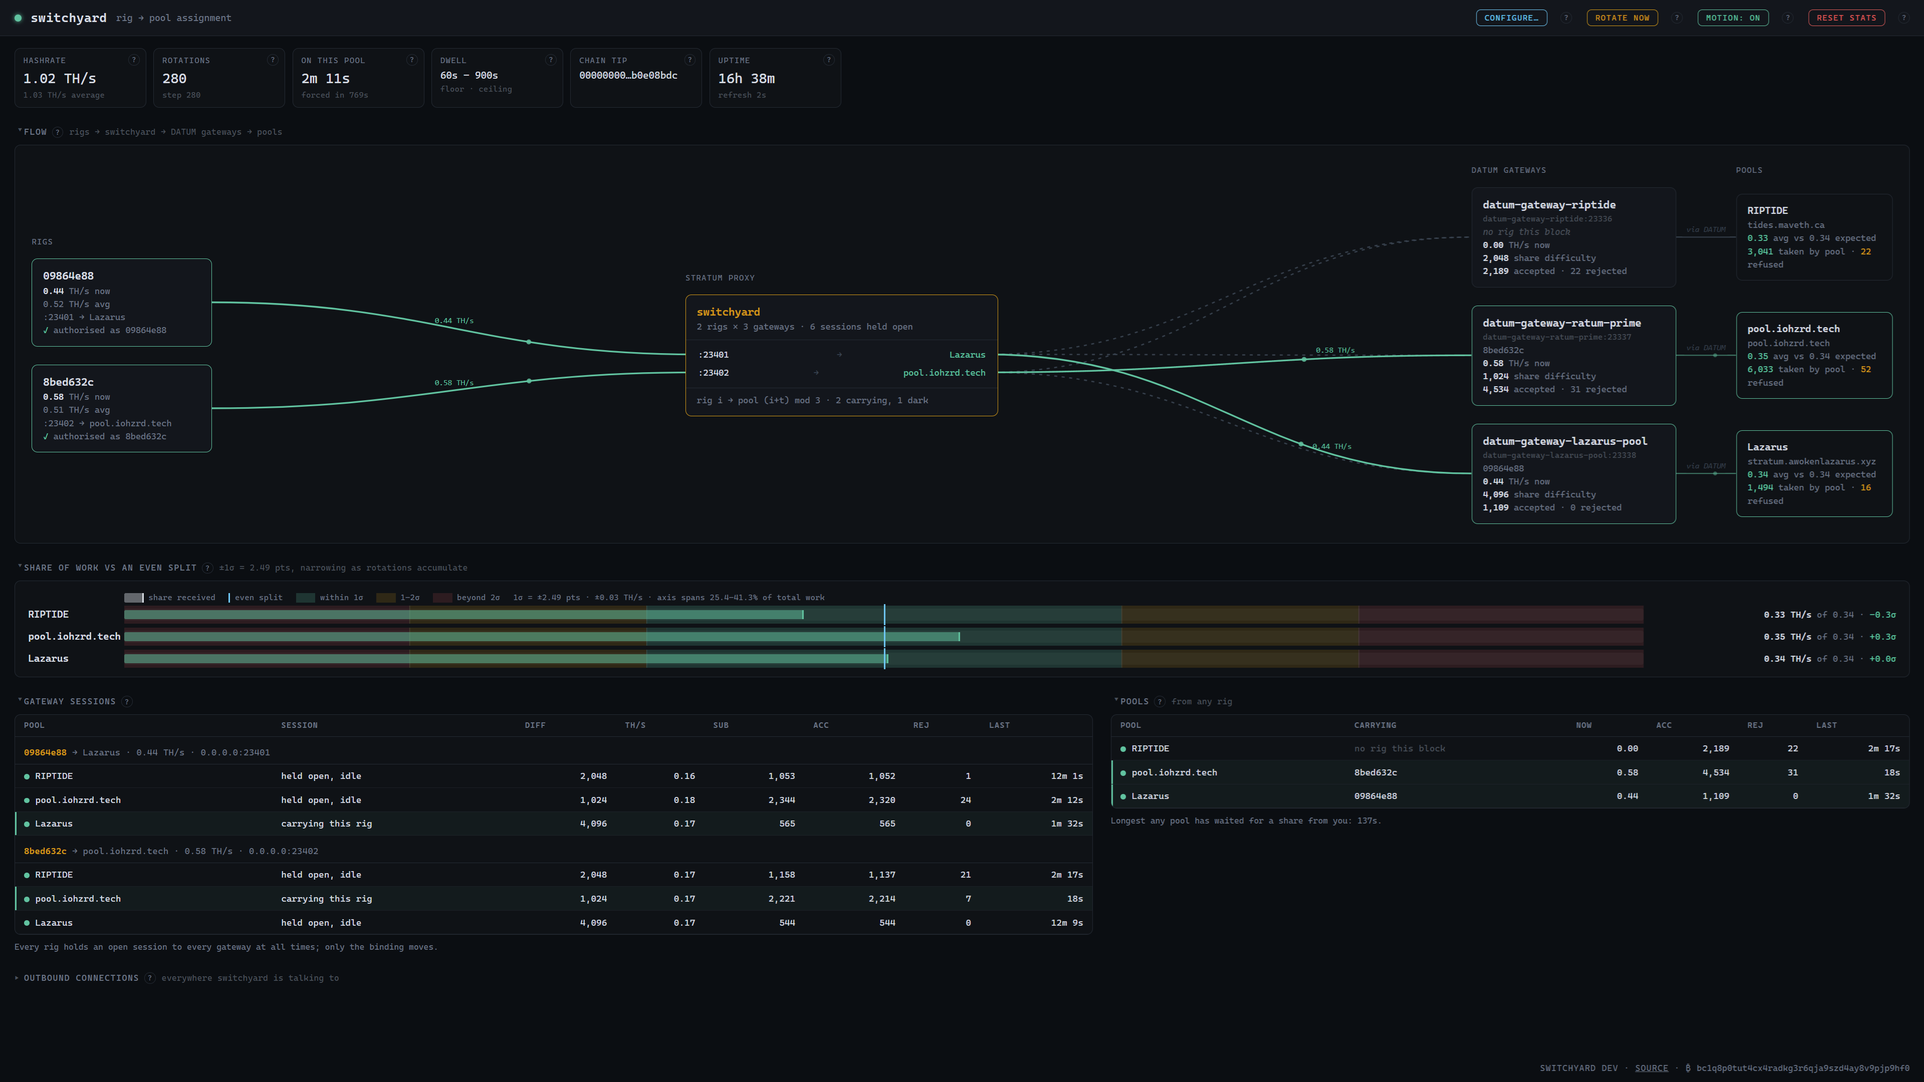
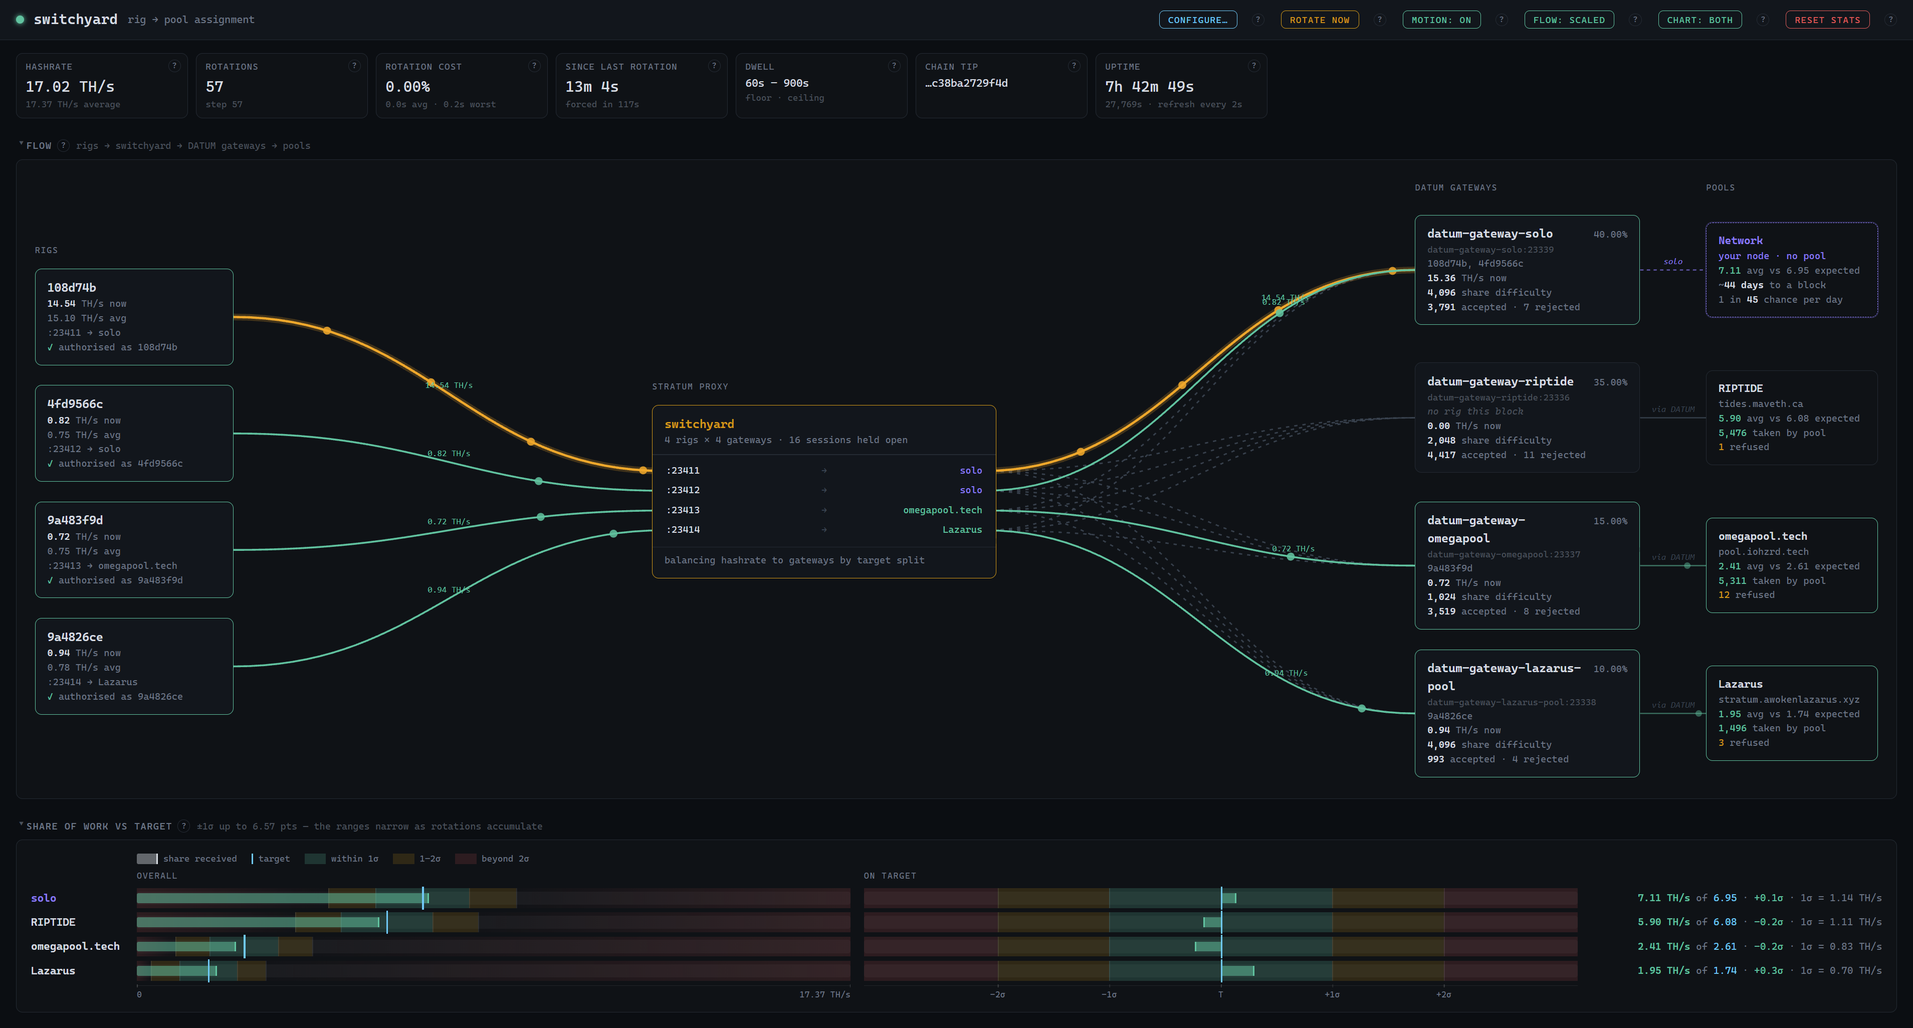
Rewrite the README for the new scheduler, solo gateway and custom split, with a new dashboard screenshot and split editor image.

diff --git a/README.md b/README.md
@@ -1,7 +1,7 @@
 # switchyard
 
-Split your hashrate across as many DATUM pools as you like, on the network's
-own clock.
+Split your hashrate across as many DATUM pools as you like, in whatever ratio
+you like, on the network's own clock, including a solo gateway.
 
 Fixed tracks, rolling stock, routed between them on a schedule.
 
@@ -12,21 +12,22 @@ Fixed tracks, rolling stock, routed between them on a schedule.
 
 ![The switchyard dashboard](docs/dashboard.png)
 
-*Two rigs, three pools, 280 rotations in. Each pool received 0.33, 0.35 and
-0.34 TH/s against an even split of 0.34 — inside a third of a standard
-deviation, which is the evenness the bands exist to prove.*
+*Four rigs across a solo gateway and three pools, on a 40/35/15/10 split, 57
+rotations in. Against targets of 6.95, 6.08, 2.61 and 1.74 TH/s they received
+7.11, 5.90, 2.41 and 1.95, every one within a third of a standard deviation.*
 
 The pools above are real, run by people who did the work of standing up a
 DATUM-compatible pool. Named here for attribution, but note that switchyard
 neither knows nor cares which pools you use.
 
 - **RIPTIDE** — <https://tides.maveth.ca>
-- **RATUM Prime** — <https://pool.iohzrd.tech>
+- **OmegaPool** — <https://pool.iohzrd.tech>
 - **Lazarus Pool** — <https://pool.awokenlazarus.xyz>
 
 **[The problem](#the-problem)** · **[How it works](#how-it-works)** ·
 **[What it costs](#what-this-costs-you)** · **[What you need](#what-you-need)** ·
 **[Gateway requirement](#one-requirement-on-your-gateways)** ·
+**[Solo gateway](#solo-gateway)** · **[Custom split](#custom-split)** ·
 **[Running it](#running-it)** · **[Configuring it](#configuring-it)** ·
 **[Behaviour worth knowing](#behaviour-worth-knowing)** ·
 **[Rented hashrate](#rented-hashrate)** ·
@@ -54,10 +55,10 @@ switchyard never talks to a pool. It sits between your rigs and your local
 DATUM gateways, each holding its own permanent session with its Prime.
 Rotating a rig disturbs no pool relationship.
 
-Any number of rigs, any number of pools. With fewer rigs than pools, `P − R`
-pools are dark at any moment — the arithmetic minimum. With more, pools carry
-multiple rigs rather than one. Either way every rig tours every pool once per cycle,
-so every pool's long-run share is equal.
+Any number of rigs, any number of pools. A balance scheduler steers each pool's
+long-run share of work toward its target — an even split by default, or an
+uneven one you set per pool. At any given moment some pools may carry several
+rigs while others are dark, whatever the counts; it is the long run that holds.
 
 ---
 
@@ -67,17 +68,29 @@ so every pool's long-run share is equal.
 — each stays welded to its pool for life (see [What you need](#what-you-need)).
 Rigs are the only thing that moves.
 
-**The schedule.** Rig `i` at step `t` is on pool `(base[i] + t) mod P`. Each
-rig keeps a fixed offset, so rigs never converge; every rig visits every pool
-exactly once per `P` steps. The opening arrangement is randomised but balanced,
-so no pool is systematically favoured.
+**The schedule.** A *balance scheduler* places the rigs on each rotation. For each
+rig it tracks how much of that rig's time each pool has had, and sends the rig to
+the pool furthest behind its target share of that time, with a small preference
+for pools no other rig is on when the choice is close. A rig holding the split
+with its own time holds it with its hashrate too, whatever size it is. The opening
+arrangement is randomised but balanced, so no pool is systematically favoured.
+Over many rotations each pool converges to its target regardless of block-timing
+variance (see [Custom split](#custom-split) for setting those targets).
+
+A rig cannot be divided, so with one rig doing most of the hashing the shares
+swing widely at first and take longer to smooth out, typically about a day of
+blocks. One real fleet, a 15 TH/s rig and three under 1 TH/s on a 40/35/15/10
+split, had its worst pool 1.3 points off target after 58 rotations.
 
 **The clock is new blocks**, detected from the `prevhash` in `mining.notify` on
 the upstream sessions. This costs nothing — every gateway already pushes a
 fresh job on every block, so there is no `blocknotify` wiring and no node
 restart. Block intervals are exponential, so slots vary widely; that averages
-out. `minDwellSeconds` only stops a burst of fast blocks from spending more
-time reconnecting than hashing.
+out. Two limits shape the rest. A block that arrives inside `minDwellSeconds`
+gets no rotation of its own, so a burst of fast blocks doesn't spend more time
+reconnecting than hashing, and if no block arrives within `maxDwellSeconds`
+switchyard rotates anyway. Over one eight-hour run, 50 of 59 rotations came from
+blocks and 9 from the ceiling, and 8 of 58 blocks fell inside the floor.
 
 **The upstream mesh is always on.** Every rig holds a session to *every*
 gateway permanently — a full `R × P` mesh — regardless of assignment. That is
@@ -86,13 +99,20 @@ to the TCP connection and **not** keyed by worker name. A gateway dialled only
 while a rig points at it would reset difficulty to the floor and re-climb on
 every rotation. With the mesh held open, only the rig-facing connection cycles.
 
+The mesh shortens the re-climb rather than removing it. DATUM lowers a session's
+difficulty when no shares are coming in, so a session left idle for several
+minutes has drifted down by the time a rig returns. A large rig then climbs back
+in about half a minute. Each share is counted at the difficulty it was sent at,
+so the extra low-difficulty shares don't skew the split.
+
 **The rig still has to reconnect.** `extranonce1` is assigned per-session at
 `mining.subscribe`, folded into the coinbase and therefore the merkle root. A
 share mined under one gateway's extranonce1 is a *different share* and cannot
 be re-addressed — a proxy cannot remap it, the hash would be wrong. So a rig
 session is bound to one gateway for its lifetime, and rotation means ending it.
 `mining.set_extranonce` would avoid the drop but depends on firmware support
-that varies.
+that varies. Every rotation reconnects every rig, including one the scheduler
+sends back to the pool it was already on.
 
 ---
 
@@ -114,8 +134,9 @@ three-minute slots. The gap is fixed; the slot is not. So the cost is set less
 by your hardware than by how often you rotate — and rotation fires on blocks,
 which you do not control. `minDwellSeconds` is the one lever you have.
 
-Reconnect time varies by firmware — two seconds for some miners, ten for
-others, and you cannot know yours from a datasheet. So switchyard measures it:
+Reconnect time varies by firmware — well under a second for some miners, ten
+seconds for others, and you cannot know yours from a datasheet. So switchyard
+measures it:
 the **Rotation cost** card reports observed average and worst reconnect, and
 the share of rig-time lost to them. Only gaps switchyard itself caused are
 counted; gaps over a minute are excluded rather than averaged in.
@@ -123,7 +144,7 @@ counted; gaps over a minute are excluded rather than averaged in.
 **A second, smaller cost: your reject rate will rise slightly.** A rotation
 changes the job and `extranonce1` under a running ASIC, so work already in the
 pipeline is stale by the time it is submitted. In practice this is roughly one
-share every couple of dozen rotations — enough to move a reject rate from
+share per rig every couple of dozen rotations — enough to move a reject rate from
 around 0.1% to a few tenths of a percent. Worth knowing only so the change
 doesn't look like a fault.
 
@@ -293,11 +314,14 @@ Run a node.
 
 ---
 
-## Solo slot
+## Solo gateway
 
 One gateway in the rotation can be a **solo** one: a DATUM gateway configured
-with no pool. It takes its turn like any pool. While a rig is on it, that rig
-is mining solo from your own node, and a block it finds is yours whole.
+with no pool. The scheduler treats it like any pool. While a rig is on it, that
+rig is mining solo from your own node, and a block it finds is yours whole.
+
+Time on solo pays nothing until you find a block. Odds aside, that is the trade:
+a pool pays you steadily for the same work, and solo pays all at once or never.
 
 The gateway's own config needs three things a pooled one does not:
 
@@ -310,19 +334,87 @@ The gateway's own config needs three things a pooled one does not:
 `mining.pool_address` is where a found block pays, so set it to your own
 address. Give it its own coinbase tag, as with any gateway.
 
-Add it with **Add solo gateway** in CONFIGURE, or in `config.json`:
+Add it with **Add solo gateway** in **Configure**, or in `config.json`:
 
     { "solo": true, "host": "gw-solo", "port": 23339, "statusPort": 7157 }
 
-It has no name, because there is no pool to name. The dashboard draws it as
-**Solo → network** and shows your odds of a block at the hashrate it has
-averaged, using the network difficulty from the gateway's own page.
+It has no name, because there is no pool to name. The dashboard calls it
+**solo**, and in place of a pool card it draws **Network** with your odds of a
+block at the hashrate it has averaged, using the network difficulty from the
+gateway's own page.
 
-**One solo slot is supported.** Every slot gets an even share of time;
-weighting that is not available yet. If this solo gateway turns out to be
-pointed at a pool, or conversely if a pooled gateway turns out to be mining
-solo, the corresponding cards simply say so with a warning, and mining continues
-anyway as configured, uninterrupted.
+**One solo gateway is supported**, and it takes a share of the rotation like any
+other pool. By default every pool — solo included — gets an equal share; a
+[custom split](#custom-split) lets you weight them, which is most useful right
+here, since how much hashrate to spend on solo is a matter of taste rather than
+economics. If this solo gateway turns out to be pointed at a pool,
+or conversely if a pooled gateway turns out to be mining solo, the corresponding
+cards simply say so with a warning, and mining continues anyway as configured,
+uninterrupted.
+
+---
+
+## Custom split
+
+By default the rotation is **even**: every pool, and the solo gateway if you have
+one, gets the same share of your hashrate over time. That is the right default
+for pool-vs-pool, where an even split is the economically neutral choice.
+
+When you want an uneven split — most often to set how much hashrate rides on
+solo against your risk appetite — the **Configure** window has a split editor,
+always shown: one bar that is always 100% by construction, where you drag a
+handle or type a percent for each pool and lock any you want to hold fixed.
+Adjusting one pool rescales the other **unlocked** pools in place, keeping their
+ratio to each other — so you can shift one share without disturbing the balance
+among the rest, and a lock lets you pin the pools you want held while you do.
+Shares carry two decimals and must total 100; the editor guarantees that, so you
+never see an invalid state.
+
+![The hashrate-split editor: the solo gateway weighted to 40%, with RIPTIDE at 25%, omegapool.tech at 20% and Lazarus at 15%](docs/hashrate-splitting.png)
+
+Above, solo is weighted to 40% and the three pools split the rest — the most
+common reason to reach for an uneven split, since how much hashrate to gamble on
+solo is a matter of taste. Each pool has a drag handle on the bar, a lock to
+hold it fixed while you move the others, and a box to type an exact percent;
+**Equalize** resets whatever is unlocked to an even share.
+
+Each gateway card in the Flow diagram shows its configured share at its top
+right, so you can see the split you asked for without opening **Configure**;
+clicking the percentage opens it.
+
+A pool set to 0% gets no rigs at all, not even as a fallback. If every gateway
+with a share above 0% is down, rigs wait for one to return rather than mining on
+the 0% pool.
+
+The shares are stored per pool in `config.json` as a `share` percentage carried
+to two decimals. They are **all-or-nothing**: either every pool sets a `share` and
+they sum to 100, or none do and the split is even. A hand-edited file that sets
+some and not others, or whose shares do not total 100, is refused at startup with
+a named error rather than guessed at — the same posture as every other ambiguous
+setting here. **Configure** always writes the split out, even an even one, so if
+you add a pool by hand to a file it has saved, give that pool a `share` too.
+
+### Checking the split is holding
+
+The dashboard's **Share of work vs target** section answers two questions side by
+side, and the **Chart** button shows either one alone:
+
+- **Overall** puts every pool on one fixed scale, from zero to your total
+  hashrate, so you can see where the work is going and compare pools.
+- **On target** zooms each pool to its own range, labelled in standard deviations
+  (σ). Each bar grows from the target, so its length is the miss. A σ is worth a
+  different rate on every row, so lengths cannot be compared between pools.
+
+The green, amber and red zones show how far a pool could drift if each dwell
+landed on a pool at random, weighted by its target. The scheduler does better than
+random, because it corrects each overshoot on later rotations, so a healthy pool
+sits well inside the green and keeps moving deeper in. On the eight-hour run above,
+±1σ reached 6.55 points while the worst miss was 1.3.
+
+So falling outside the band is real evidence of a problem, but sitting inside it
+is not a measure of precision. For that, read the figures beside each bar. Very
+small targets are the exception early on: one dwell can overshoot them enough to
+read red for a while.
 
 ---
 
@@ -347,8 +439,8 @@ services:
 
 Two things catch people:
 
-- **Publish a port per rig.** Switchyard assigns from 23401 upwards; an
-  unpublished port is a rig that cannot connect.
+- **Publish a port per rig.** Switchyard suggests ports from 23401 upwards and
+  you can change them; an unpublished port is a rig that cannot connect.
 - **`127.0.0.1` inside a container means the container.** If your gateways are
   containers, share a network and use their names as the pool `host`. If they
   run on the host, use the host's LAN address.
@@ -451,17 +543,22 @@ typo fails loudly instead of being ignored.
 | Field | Default | What it is |
 |---|---|---|
 | `statusListen` | `:7160` | Dashboard address. See the security note below before exposing it. |
-| `pools[].name` | — | A label for the dashboard. |
+| `pools[].name` | — | A label for the dashboard. **Configure** reads it from the gateway's coinbase tag. Not allowed on a solo entry. |
 | `pools[].host` | — | The gateway's address — container name, hostname or IP. |
 | `pools[].port` | — | The gateway's **stratum** port (DATUM default `23334`). |
 | `pools[].statusPort` | — | The gateway's **status page** port (`7152` in DATUM's example config; the default is `0`, disabled, so make sure it is set). Required — it is how switchyard shows what the pool actually accepted. |
-| `rigs[].listen` | — | This rig's port. Assigned from 23401 up. |
+| `pools[].solo` | `false` | Marks the [solo gateway](#solo-gateway). One at most. |
+| `pools[].share` | — | This pool's target percentage, 0 to 100. Set on every pool or none; see [Custom split](#custom-split). |
+| `rigs[].listen` | — | This rig's port. **Configure** suggests the next free one from 23401 up. |
 | `minDwellSeconds` | `60` | Floor on a rotation slot, so fast blocks don't spend more time reconnecting than hashing. |
-| `maxDwellSeconds` | `900` | Ceiling, so a slow block doesn't strand a pool. |
+| `maxDwellSeconds` | `900` | Ceiling: if no block has arrived by then, rotate anyway. |
 | `pollSeconds` | `2` | Dashboard refresh. |
 | `gatewayPollSeconds` | `30` | How often gateway status pages are read. While a dashboard has the **shares** flow mode open, they are also read four times a second, for as long as it stays open. |
 | `dialTimeoutSeconds` | `10` | Upstream connect timeout. |
 | `versionRollingMask` | `""` (off) | Leave empty unless **every** rig uses version rolling — see below. |
+
+Pools and rigs are drawn in the order they appear in the file. To change it, drag
+a card's handle in **Configure**, or focus the handle and use the arrow keys.
 
 ### Where it lives
 
@@ -495,10 +592,20 @@ defaulting to `config.json` in the working directory.
   not a miner.
 - **A dead gateway does not idle a rig.** If the scheduled pool isn't ready the
   rig binds to any ready gateway and logs it. Earning on the wrong pool for one
-  slot beats not earning.
+  slot beats not earning. The exception is a pool set to 0%, which never takes a
+  rig, not even as a fallback.
+- **An outage is not repaid.** The scheduler credits each dwell to the pool the rig
+  was scheduled on, whether or not it got there. A pool that was down, or a rig
+  that was off, does not get extra time afterwards. The share chart shows any
+  shortfall.
+- **The balance lives in memory.** A restart or a save from **Configure** starts it
+  over. **Reset stats** clears the figures on the dashboard but leaves the
+  scheduler's balance alone.
 - **The dark slot is real.** Pools that flag idle workers on share submission
   will see a gap on their dashboard; connection liveness doesn't help, because
-  the discriminator is shares.
+  the discriminator is shares. The smaller a pool's share, the longer those gaps:
+  a 10% pool in a four-rig fleet had no rig on 58% of rotations in one real run,
+  for up to 33 minutes at a stretch.
 
 ---
 
@@ -523,7 +630,7 @@ other. Before you do, know these things:
   the gateway pays the address in *its* config, so who the renter claims to be
   cannot redirect the payout. Do check your pool dashboards for that label
   rather than your own, so you are not alarmed when it appears.
-- **Rotation costs the renter's machines a reconnect too.** Every block, the
+- **Rotation costs the renter's machines a reconnect too.** Every rotation, the
   whole fleet is dropped and reconnects. Firmware you have never seen decides
   how long that takes; the **Rotation cost** card measures it, and it is a
   larger fraction of a short rental than of a long one. Raise
@@ -565,10 +672,10 @@ slice of shares elsewhere.
 
 - **It forwards your identity rather than rewriting it.** Configure your miner
   exactly as you would to reach the gateway directly. A rig entry needs only a
-  port — no name field, no payout address. Where an override is set for an odd
-  pool, the dashboard shows both the name your miner sent and the name that
-  went upstream. A substitution nobody can see is indistinguishable from one
-  nobody agreed to.
+  port — no name field, no payout address, and nowhere to set an override. On a
+  port with several miners, where one name goes upstream for all of them, the
+  dashboard shows both the name each miner sent and the name that went upstream.
+  A substitution nobody can see is indistinguishable from one nobody agreed to.
 - **Every outbound connection is listed.** The dashboard's *Outbound
   connections* panel shows every socket switchyard holds to another machine.
   The complete set should be your gateways and nothing else. No telemetry, no
@@ -651,16 +758,19 @@ it arrives. Classic pool-hopping targets **proportional** schemes, where early
 shares in a round are worth more than late ones; that asymmetry is what makes
 hopping profitable, and TIDES has none of it.
 
-**The scheduling is deliberately unpredictable and even.** Rotations fire on
-blocks nobody controls, and each rig visits every pool once per cycle. The
-fairness band exists to *prove* that evenness, not to help you deviate from it.
-A tool built for hopping would want the opposite: control over timing, and a
-way to bias the split.
+**The scheduling is deliberately unpredictable.** Rotations fire on blocks
+nobody controls, so you cannot time which pool a rig is on. The split across
+pools is a fixed ratio set in advance — even by default — and the fairness band
+exists to *flag* a pool that is not getting the share it was promised, not to help
+you deviate from it. A tool built for hopping would want the opposite: control over
+*timing*, so it could pile onto a pool early in its round and leave before the
+end.
 
-Weighting pools unevenly is a legitimate thing to want and switchyard doesn't
-do it yet. It would not open a hopping vector either — the inputs would still
-be the chain and a fixed ratio you chose, but this is not in active development
-at this time.
+Weighting pools unevenly is a legitimate thing to want, and switchyard does it
+(see [Custom split](#custom-split)) — but it is not that lever. The inputs
+are still only the chain and a fixed ratio you chose ahead of time; nothing
+reacts to where a pool is in its round, which is the one thing hopping needs.
+Under TIDES there is nothing to hop anyway, for the reason above.
 
 ---
 
@@ -679,8 +789,9 @@ startup if it no longer understands your file.
 
 ## Contributing
 
-Issues and pull requests welcome. CI runs `gofmt`, `go vet` and
-`go test -race`. There is a [justfile](justfile) with the same checks:
+Issues and pull requests welcome. CI runs `gofmt`, `go vet`, `go test -race` and a
+syntax check of the embedded dashboard. There is a [justfile](justfile) with the
+same checks:
 
 ```
 just            # list every recipe

diff --git a/CLAUDE.md b/CLAUDE.md
@@ -1,8 +1,9 @@
 # switchyard
 
 A stratum proxy that rotates mining rigs across DATUM gateways so every pool
-gets an even share of work. Single Go binary, no third-party dependencies, with
-the dashboard embedded via `go:embed`.
+gets its target share of work -- an even split by default, or a custom per-pool
+split (including the solo gateway). Single Go binary, no third-party
+dependencies, with the dashboard embedded via `go:embed`.
 
 ## Before you finish any change
 
